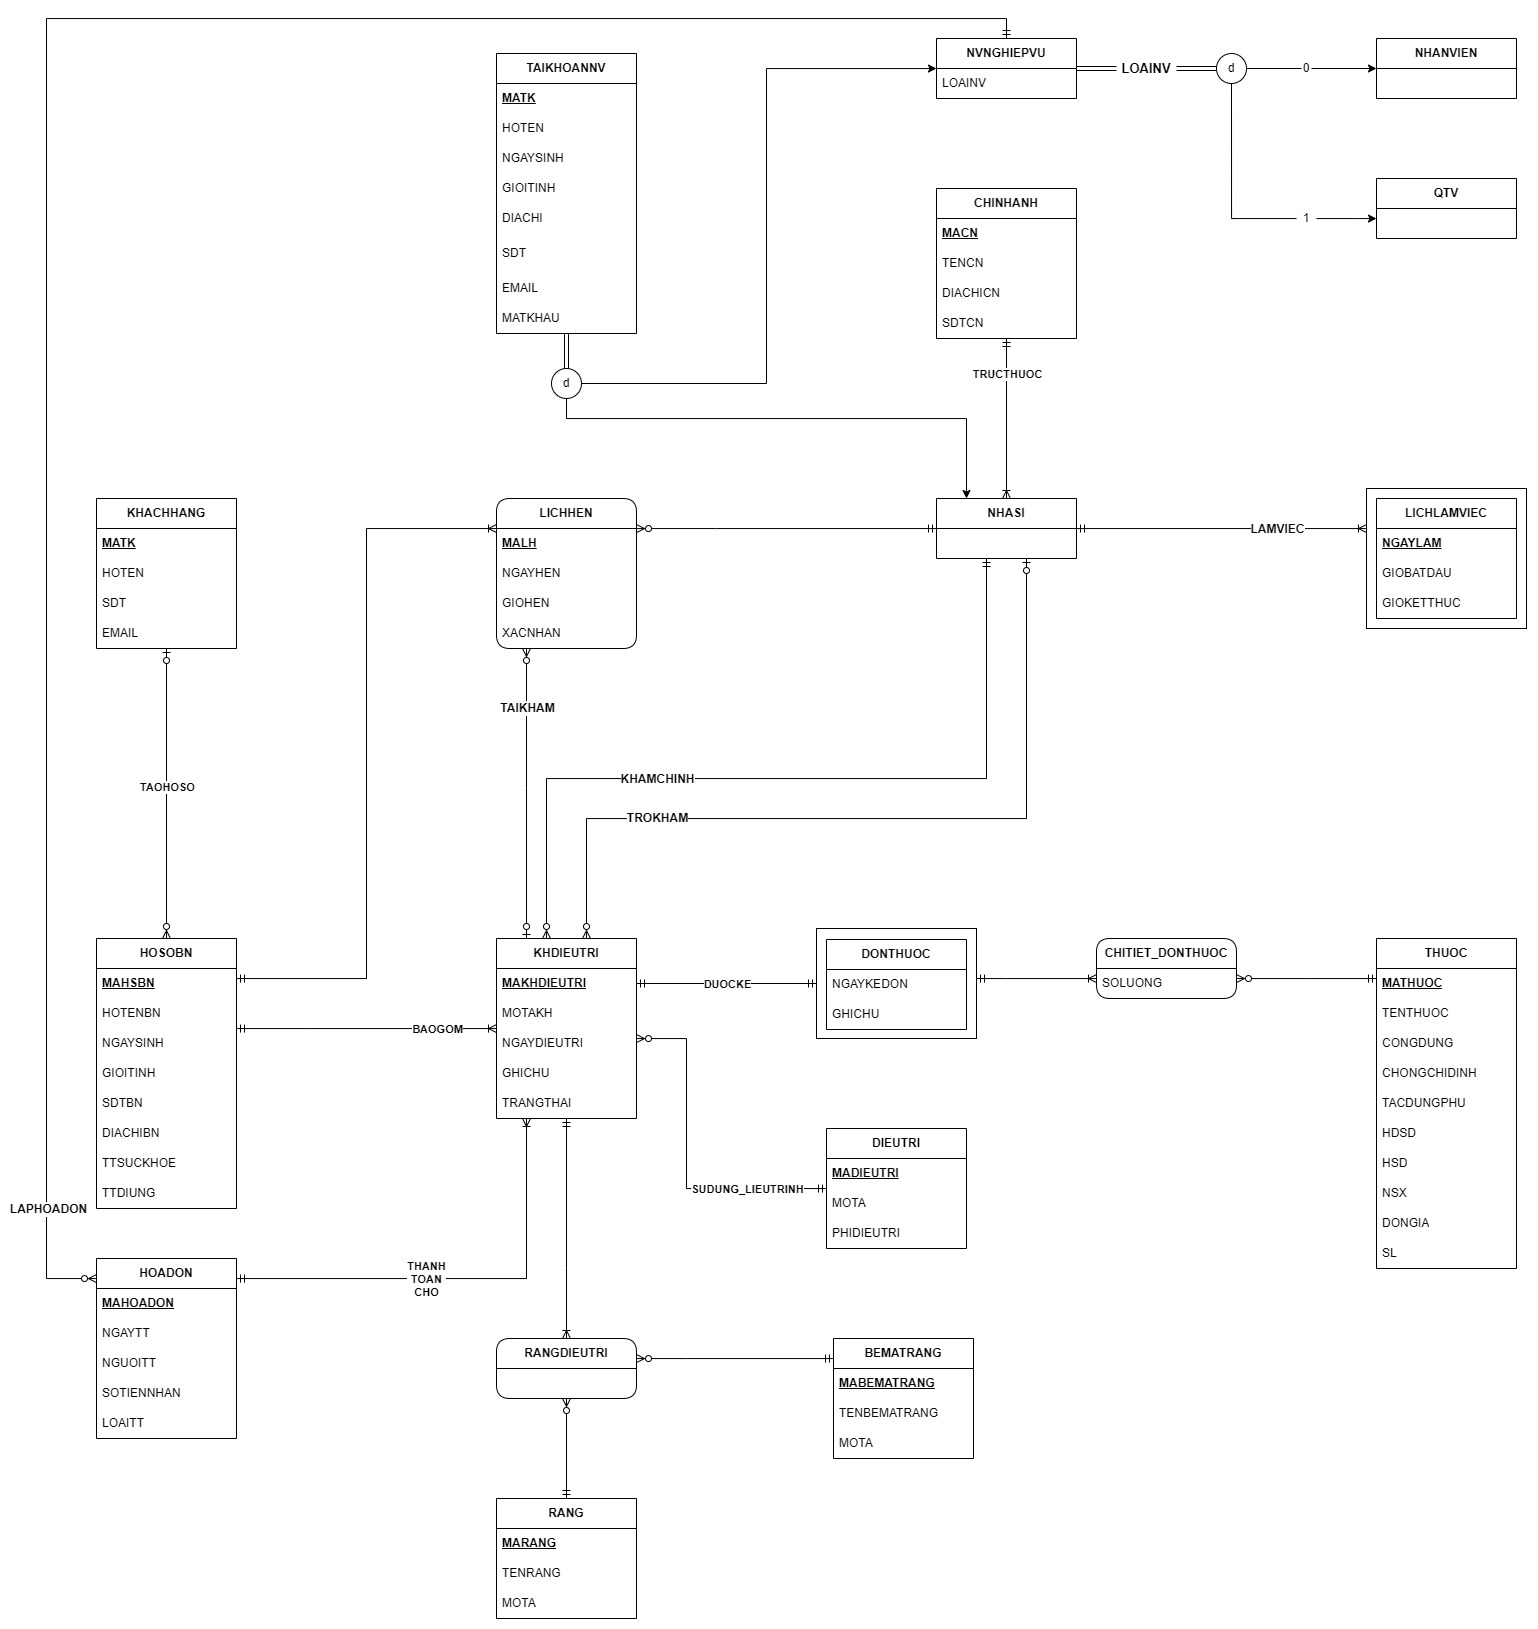
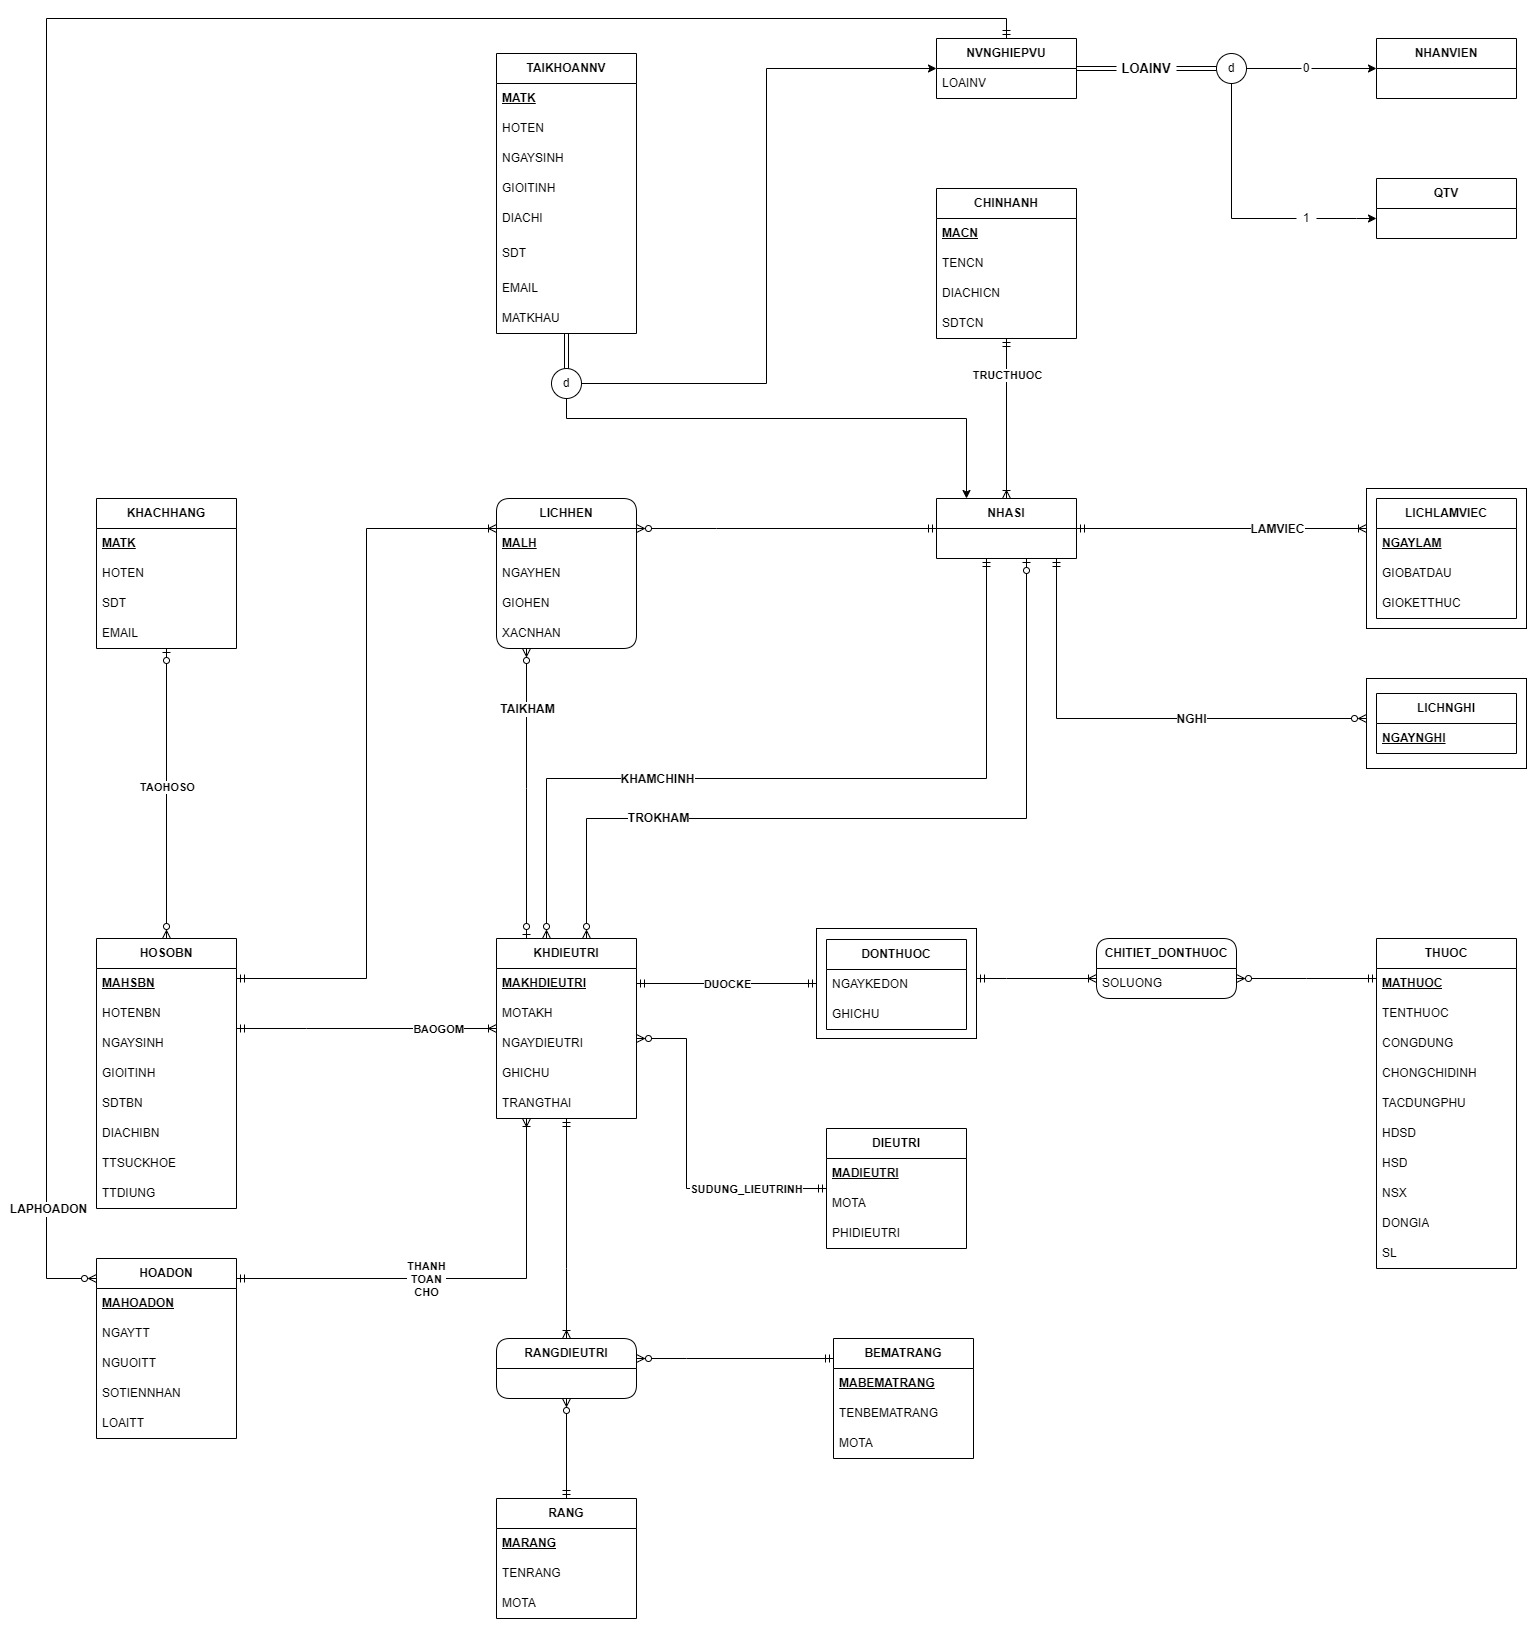
Update Diagram and Add Authentication.

diff --git a/src/routes/listNV_Routes.js b/src/routes/listNV_Routes.js
@@ -1,13 +1,13 @@
 const {Router} = require('express')
 const listNV_Controllers = require('../controllers/listNV_Controllers')
-const { preventLoginAgain, requireAuth } = require('../middleware/authMiddleware')
+const { requirePermission, requireAuth } = require('../middleware/authMiddleware')
 
 const router = Router()
 
-router.get('/listNV', requireAuth, listNV_Controllers.Nhansu_Nhanvien_get)
-router.get('/listNV/init', requireAuth,listNV_Controllers.listNV_get_data);
-router.post('/listNV', requireAuth, listNV_Controllers.Nhansu_Nhanvien_post)
-router.get('/createNV', requireAuth, listNV_Controllers.createNV_get)
-router.post('/createNV', requireAuth, listNV_Controllers.createNV_post)
+router.get('/listNV', requirePermission(3), listNV_Controllers.Nhansu_Nhanvien_get)
+router.get('/listNV/init', requirePermission(3),listNV_Controllers.listNV_get_data);
+router.post('/listNV', requirePermission(3), listNV_Controllers.Nhansu_Nhanvien_post)
+router.get('/createNV', requirePermission(3), listNV_Controllers.createNV_get)
+router.post('/createNV', requirePermission(3), listNV_Controllers.createNV_post)
 
 module.exports = router;

diff --git a/src/routes/listNS_Routes.js b/src/routes/listNS_Routes.js
@@ -1,13 +1,13 @@
 const { Router } = require('express');
 const listNS_Controllers = require('../controllers/listNS_Controllers');
-const { preventLoginAgain, requireAuth } = require('../middleware/authMiddleware');
+const { requirePermission, requireAuth } = require('../middleware/authMiddleware');
 
 const router = Router();
 
-router.get('/listNS', requireAuth, listNS_Controllers.Nhansu_Nhasi_get);
-router.get('/listNS/init', requireAuth,listNS_Controllers.listNS_get_data);
-router.post('/listNS', requireAuth, listNS_Controllers.Nhansu_Nhasi_post);
-router.get('/createNS', requireAuth, listNS_Controllers.createNS_get)
-router.post('/createNS', requireAuth, listNS_Controllers.createNS_post)
+router.get('/listNS', requirePermission(3), listNS_Controllers.Nhansu_Nhasi_get);
+router.get('/listNS/init', requirePermission(3),listNS_Controllers.listNS_get_data);
+router.post('/listNS', requirePermission(3), listNS_Controllers.Nhansu_Nhasi_post);
+router.get('/createNS', requirePermission(3), listNS_Controllers.createNS_get)
+router.post('/createNS', requirePermission(3), listNS_Controllers.createNS_post)
 
 module.exports = router;

diff --git a/src/routes/HOADON_Routes.js b/src/routes/HOADON_Routes.js
@@ -10,8 +10,8 @@ router.get('/hoadon', requirePermission(3), HOADON_Controllers.Hoadon_get)
 router.get('/createHoadon', requirePermission(3), HOADON_Controllers.createHoadon_get)
 router.get('/list_Hoadon_dataTable', requirePermission(3), HOADON_Controllers.list_Hoadon_dataTable)
 router.post('/createHoadon', requirePermission(3), HOADON_Controllers.createHoadon_post)
-router.get('/khdt_get', requireAuth, HOADON_Controllers.khdt_get)
-router.get('/makh_get', requireAuth, HOADON_Controllers.makh_get)
+router.get('/khdt_get', requirePermission(3), HOADON_Controllers.khdt_get)
+router.get('/makh_get', requirePermission(3), HOADON_Controllers.makh_get)
 // router.post('/createHoadon', requireAuth, HOADON_Controllers.createHoadon_post)
 
 module.exports = router;
